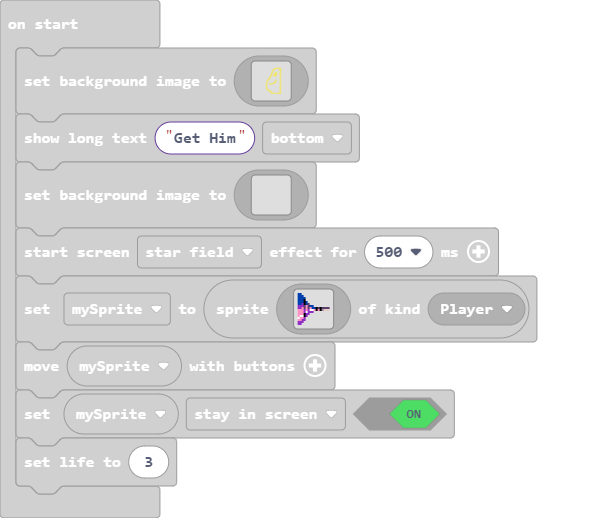
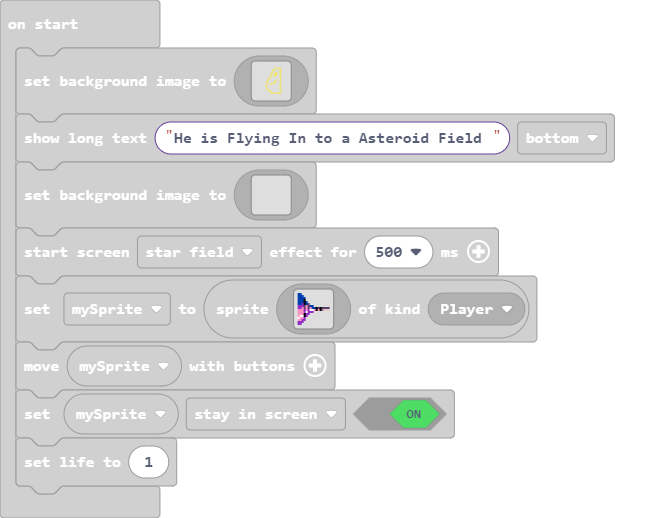
Update main.blocks, main.ts

diff --git a/main.ts b/main.ts
@@ -153,7 +153,7 @@ scene.setBackgroundImage(img`
     ...........................................................................555555555555555555555555555555555555555555555..............................
     ...............................................................................55555555555555555555555555555555555555555..............................
     `)
-game.showLongText("He is Flying in To a Asteriod Field Get Him", DialogLayout.Bottom)
+game.showLongText("He is Flying In to a Asteroid Field ", DialogLayout.Bottom)
 scene.setBackgroundImage(img`
     ................................................................................................................................................................
     ................................................................................................................................................................
